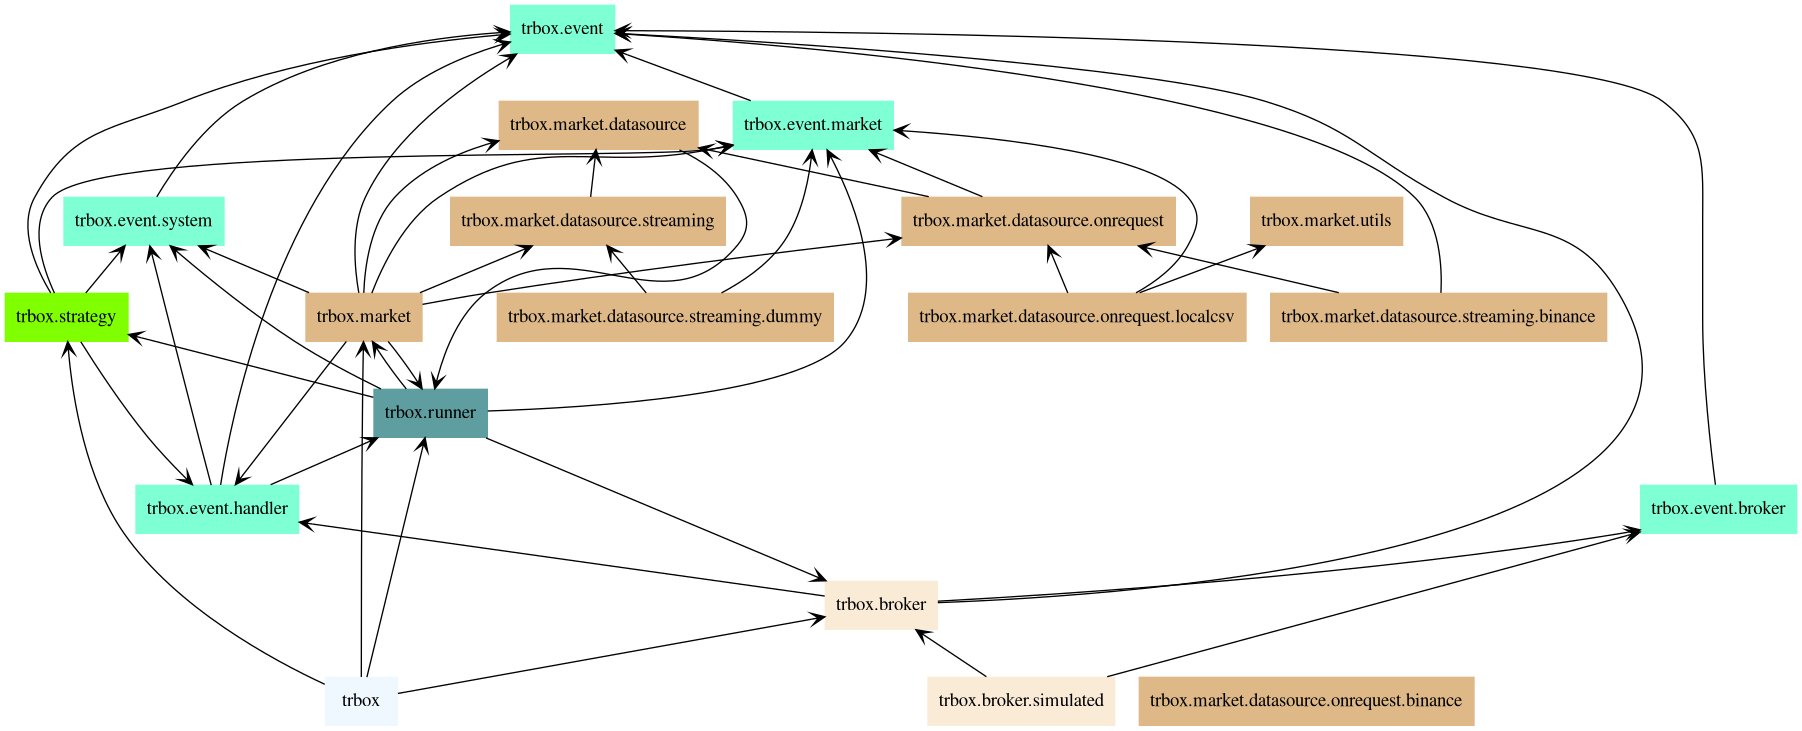
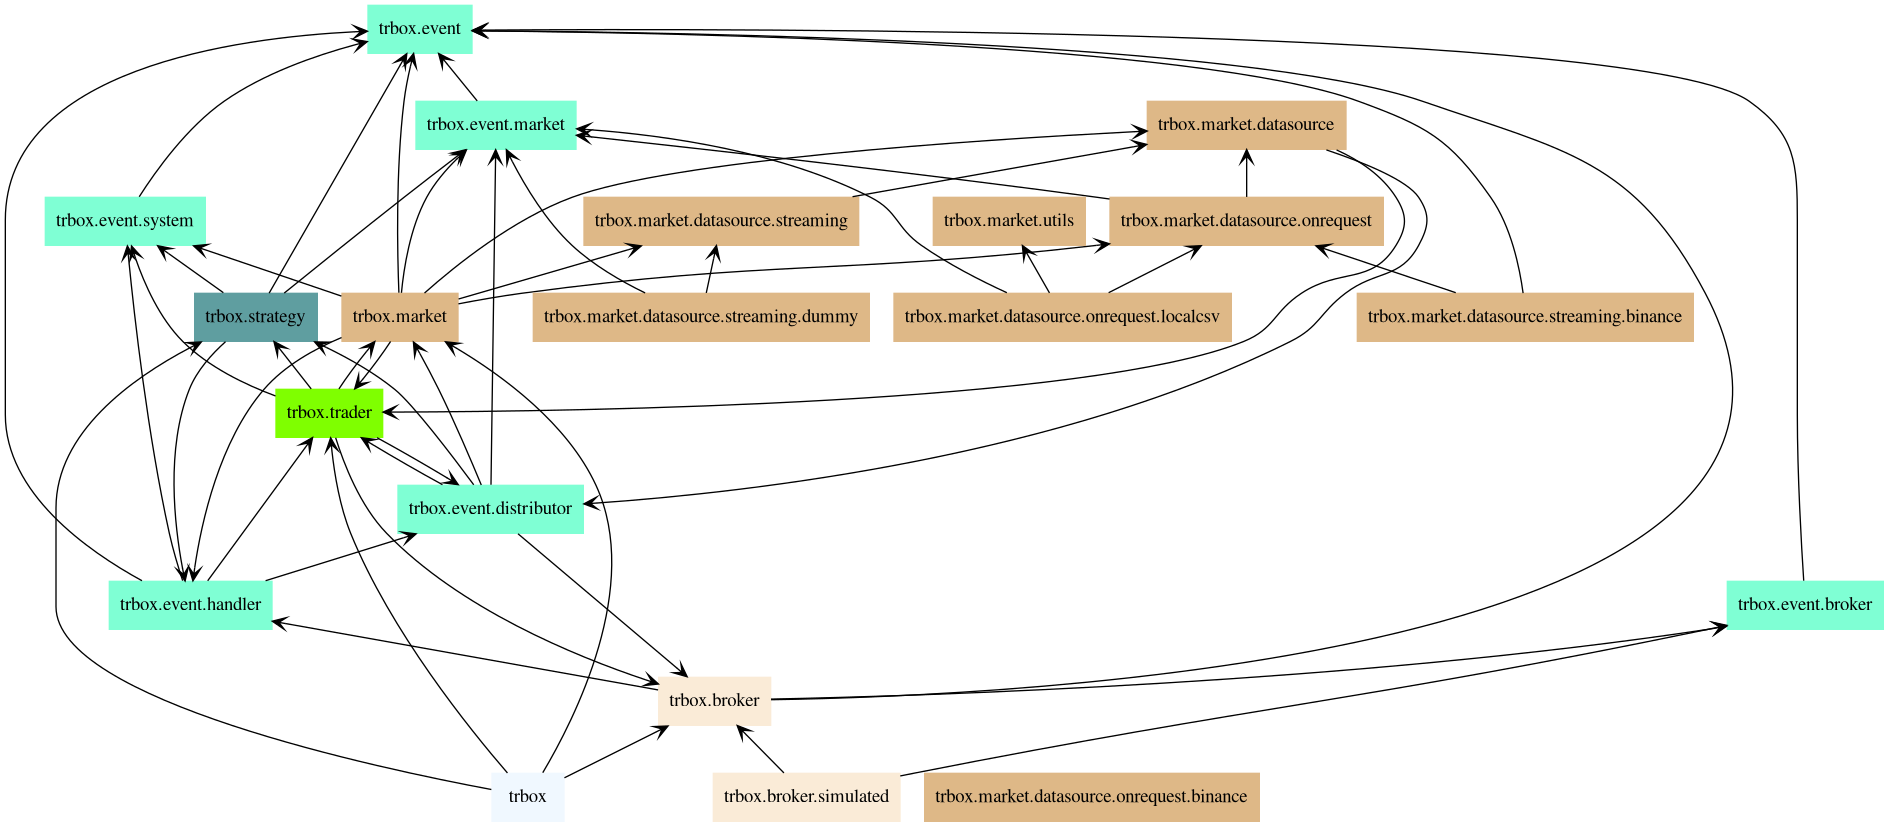
rft: Distributor for processor event reply from CounterParty via `send`

diff --git a/trbox/trader/__init__.py b/trbox/trader/__init__.py
@@ -1,14 +1,13 @@
 from __future__ import annotations
 from typing import TYPE_CHECKING, Any
-from trbox.common.types import Symbol
-
-from trbox.event.market import MarketData, MarketDataRequest
 if TYPE_CHECKING:
     from trbox.strategy import Strategy
     from trbox.market import Market
     from trbox.broker import Broker
 from concurrent.futures import ThreadPoolExecutor, as_completed
 from trbox.event.system import Exit, Start
+from trbox.common.types import Symbol
+from trbox.event.distributor import Distributor
 from logging import info, exception
 
 
@@ -21,13 +20,6 @@ class Runner:
         self._market: Market = market
         self._broker: Broker = broker
         self._handlers = [self._strategy, self._market, self._broker]
-
-    # event routing
-    def new_market_data(self, e: MarketData) -> None:
-        self._strategy.put(e)
-
-    def new_market_data_request(self, e: MarketDataRequest) -> None:
-        self._market.put(e)
 
     # system controls
     def start(self) -> None:
@@ -65,6 +57,10 @@ class Runner:
 class Trader(Runner):
     def __init__(self, **kwargs: Any):
         super().__init__(**kwargs)
+        self._distributor = Distributor(self,
+                                        strategy=self._strategy,
+                                        market=self._market,
+                                        broker=self._broker)
         for handler in self._handlers:
             handler.attach(self)
         for handler in self._handlers:

diff --git a/trbox/event/distributor.py b/trbox/event/distributor.py
@@ -1,0 +1,28 @@
+from __future__ import annotations
+from typing import TYPE_CHECKING
+if TYPE_CHECKING:
+    from trbox.broker import Broker
+    from trbox.market import Market
+    from trbox.strategy import Strategy
+    from trbox.trader import Trader
+from trbox.event.market import MarketData, MarketDataRequest
+
+
+class Distributor:
+    def __init__(self,
+                 trader: Trader,
+                 *,
+                 strategy: Strategy,
+                 market: Market,
+                 broker: Broker) -> None:
+        self._trader = trader
+        self._strategy = strategy
+        self._market = market
+        self._broker = broker
+
+    # event routing
+    def new_market_data(self, e: MarketData) -> None:
+        self._strategy.put(e)
+
+    def new_market_data_request(self, e: MarketDataRequest) -> None:
+        self._market.put(e)

diff --git a/trbox/event/handler.py b/trbox/event/handler.py
@@ -2,6 +2,7 @@ from abc import ABC, abstractmethod
 from queue import Queue
 from typing import Self
 from trbox.event import Event
+from trbox.event.distributor import Distributor
 from trbox.event.system import Exit
 from trbox.trader import Trader
 from logging import debug
@@ -55,13 +56,18 @@ class CounterParty(EventHandler, ABC):
         super().__init__()
 
     # CounterParty must attach to a Trader to function properly
-    def attach(self, trader: Trader) -> Self:
+    def attach(self,
+               trader: Trader) -> Self:
         self._trader = trader
         return self
 
     @property
     def trader(self) -> Trader:
         return self._trader
+
+    @property
+    def send(self) -> Distributor:
+        return self._trader._distributor
 
     @property
     def attached(self) -> bool:

diff --git a/trbox/market/datasource/streaming/dummy.py b/trbox/market/datasource/streaming/dummy.py
@@ -26,7 +26,7 @@ class DummyPrice(StreamingSource):
         def worker() -> None:
             # gen random price to simulate live market
             for i in range(self._n):
-                self.trader.new_market_data(Candlestick(self._symbol, i))
+                self.send.new_market_data(Candlestick(self._symbol, i))
                 time.sleep(self._delay)
             # simulate the end of data
             self.trader.stop()

diff --git a/trbox/market/datasource/onrequest/localcsv.py b/trbox/market/datasource/onrequest/localcsv.py
@@ -42,6 +42,6 @@ class YahooOHLCV(OnRequestSource):
         if isinstance(e, OhlcvWindowRequest):
             try:
                 df = next(self._window_generator)
-                self.trader.new_market_data(OhlcvWindow(self._symbols, df))
+                self.send.new_market_data(OhlcvWindow(self._symbols, df))
             except StopIteration:
                 self.trader.stop()

diff --git a/trbox/market/datasource/__init__.py b/trbox/market/datasource/__init__.py
@@ -1,4 +1,5 @@
 from typing import Self
+from trbox.event.distributor import Distributor
 from trbox.trader import Trader
 
 
@@ -16,3 +17,7 @@ class DataSource:
     @property
     def trader(self) -> Trader:
         return self._trader
+
+    @property
+    def send(self) -> Distributor:
+        return self._trader._distributor

diff --git a/trbox/strategy/__init__.py b/trbox/strategy/__init__.py
@@ -18,7 +18,7 @@ class Strategy(CounterParty):
 
     # operations
     def request_ohlcv_window(self) -> None:
-        self.trader.new_market_data_request(OhlcvWindowRequest())
+        self.send.new_market_data_request(OhlcvWindowRequest())
 
     def handle(self, e: Event) -> None:
         # for live streaming data
